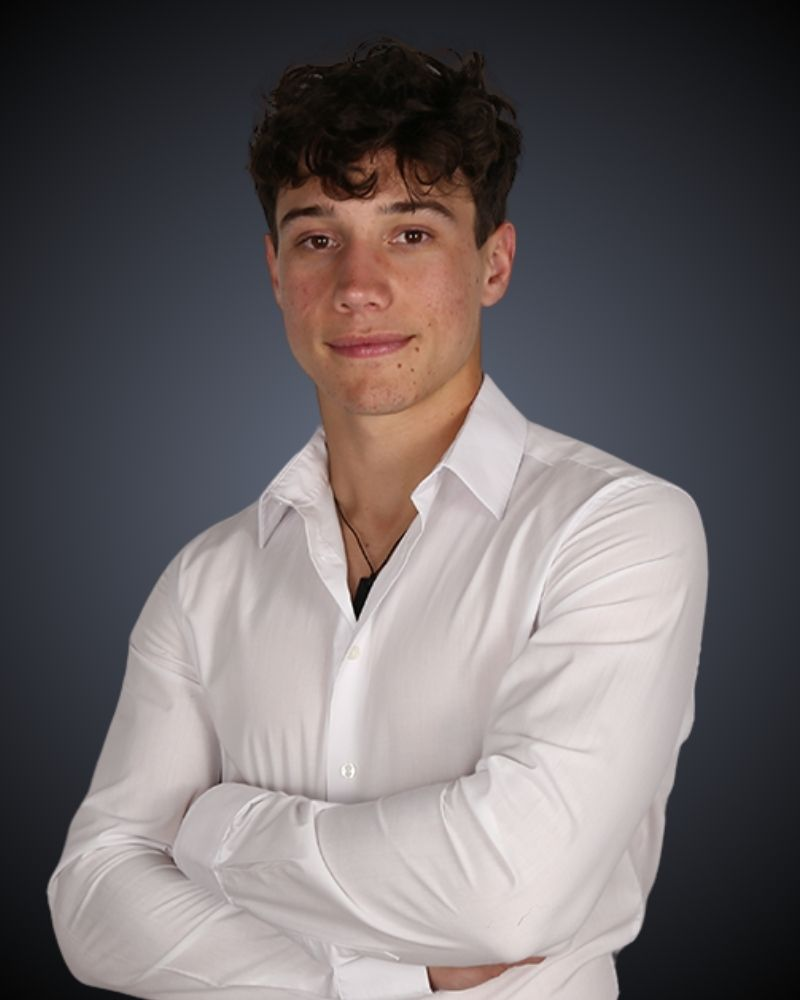
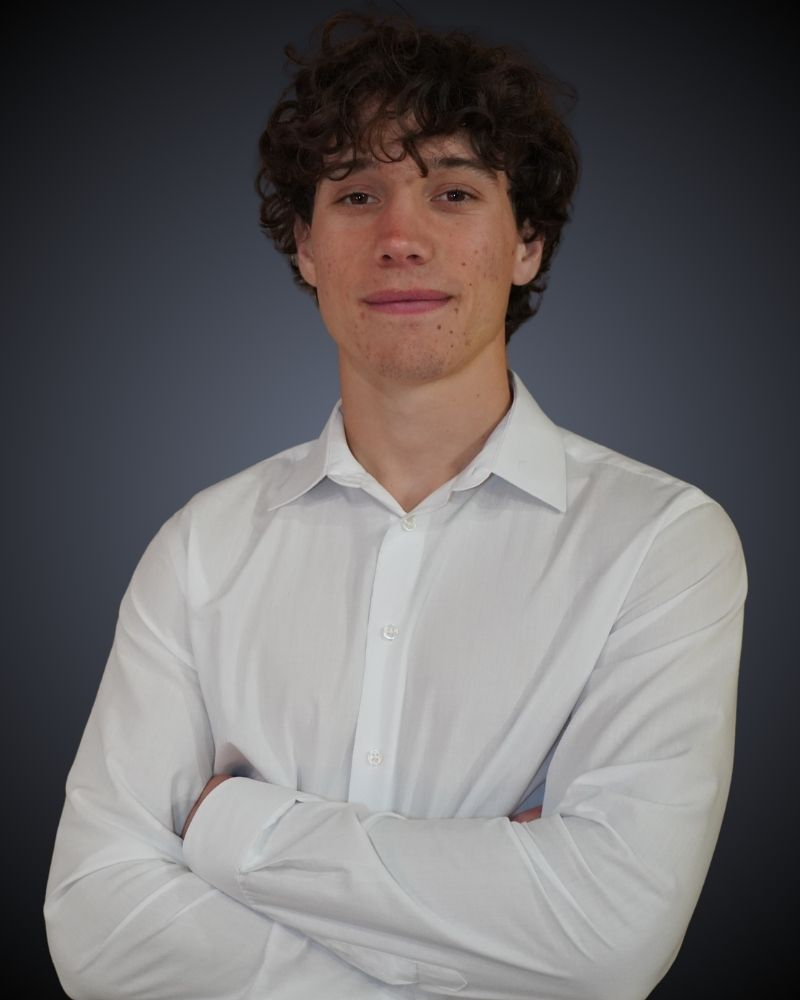
fix(team): update Nicolò photo and correct author names in DashboardEditor
- Replace nicolo.jpg with new nicolop.jpg photo
- Fix Team.tsx image reference to use nicolop.jpg
- Replace placeholder names (Sebastiano Zanardo, Lorenzo Bianchi) with
  real team members (Sebastiano Riva, Riccardo Splisteser) in DashboardEditor

diff --git a/components/DashboardEditor.tsx b/components/DashboardEditor.tsx
@@ -19,7 +19,7 @@ const DashboardEditor: React.FC<DashboardEditorProps> = ({ post, onBack, onSave 
   const [category, setCategory] = useState(post?.category || 'Meta Advertising');
   const [readTime, setReadTime] = useState(post?.readTime || '5 min');
   const [authorName, setAuthorName] = useState(post?.author.name || 'Nicolò Pozzato');
-  const [authorImage, setAuthorImage] = useState(post?.author.image || '/team/nicolo.jpg');
+  const [authorImage, setAuthorImage] = useState(post?.author.image || '/team/nicolop.jpg');
   const [showPreview, setShowPreview] = useState(false);
   const [isSaving, setIsSaving] = useState(false);
   const [error, setError] = useState<string | null>(null);
@@ -297,15 +297,15 @@ const DashboardEditor: React.FC<DashboardEditorProps> = ({ post, onBack, onSave 
                   onChange={(e) => {
                     setAuthorName(e.target.value);
                     // Auto-set author image based on name
-                    if (e.target.value === 'Nicolò Pozzato') setAuthorImage('/team/nicolo.jpg');
-                    if (e.target.value === 'Sebastiano Zanardo') setAuthorImage('/team/sebastiano.jpg');
-                    if (e.target.value === 'Lorenzo Bianchi') setAuthorImage('/team/lorenzo.jpg');
+                    if (e.target.value === 'Nicolò Pozzato') setAuthorImage('/team/nicolop.jpg');
+                    if (e.target.value === 'Sebastiano Riva') setAuthorImage('/team/sebastiano.jpg');
+                    if (e.target.value === 'Riccardo Splisteser') setAuthorImage('/team/riccardo.jpg');
                   }}
                   className="w-full px-4 py-3 bg-white/5 border border-white/10 rounded-xl text-white focus:outline-none focus:border-indigo-500 transition-colors"
                 >
                   <option value="Nicolò Pozzato">Nicolò Pozzato</option>
-                  <option value="Sebastiano Zanardo">Sebastiano Zanardo</option>
-                  <option value="Lorenzo Bianchi">Lorenzo Bianchi</option>
+                  <option value="Sebastiano Riva">Sebastiano Riva</option>
+                  <option value="Riccardo Splisteser">Riccardo Splisteser</option>
                 </select>
               </div>
 

diff --git a/components/Team.tsx b/components/Team.tsx
@@ -33,7 +33,7 @@ const teamMembers = [
     name: "Nicolò Pozzato",
     role: "Co-Founder",
     specialty: "Responsabile Marketing",
-    image: "/team/nicolo.jpg",
+    image: "/team/nicolop.jpg",
     linkedin: "https://www.linkedin.com/in/nicolo-pozzato",
     bio: "Esperto in Meta Advertising e strategie di acquisizione clienti. Gestisce campagne Meta (Facebook e Instagram) ad alte performance, con focus su targeting chirurgico e ottimizzazione continua. Specializzato in lead generation B2B e funnel multicanale."
   }
